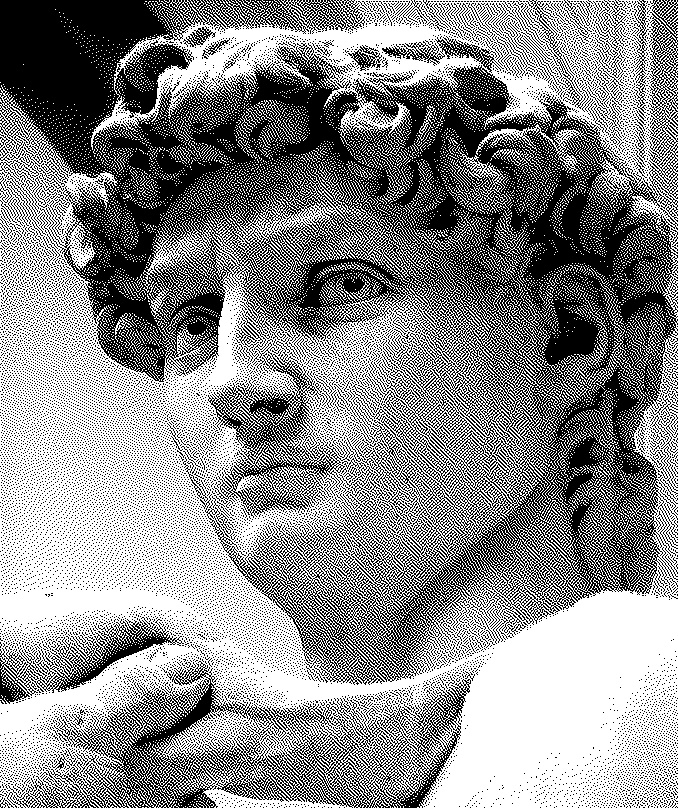
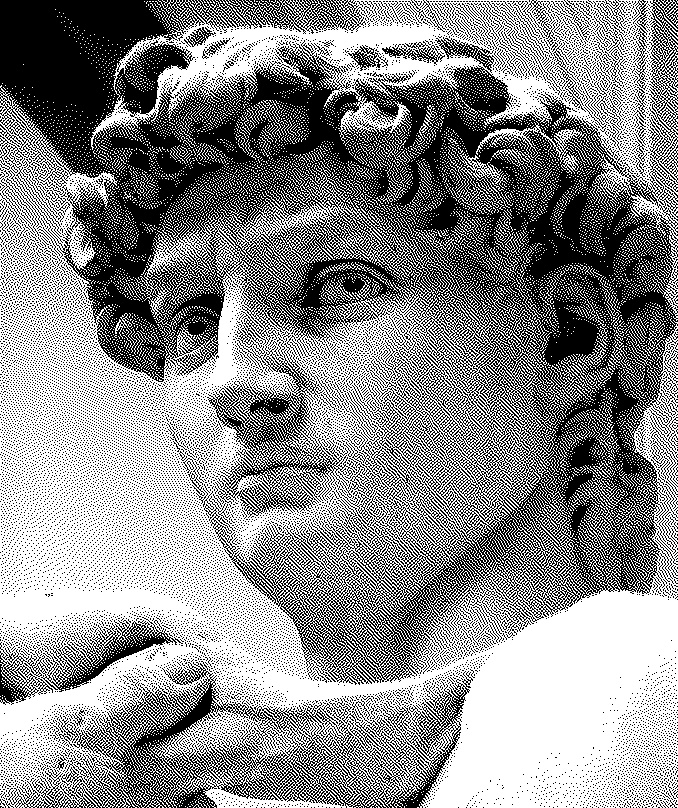
Updated program structure to functional form

diff --git a/test.cpp b/test.cpp
@@ -2,83 +2,67 @@
 #include <opencv2/imgcodecs.hpp>
 #include <opencv2/opencv.hpp>
 
-enum class dither_t { floyd_steinberg, atkinson, min_average_error };
+int8_t
+update_and_diff_closest_palette_color (cv::Mat& img, int i, int j) {
+  auto current = img.at<uchar> (i, j);
+  auto update  = (current > 127 ? 255 : 0);
+
+  img.at<uchar> (i, j) = update;
+  return int8_t (current) - int8_t (update);
+}
+
+using kernel_t = void (*) (cv::Mat&, int, int, double);
+
+kernel_t kernel_floyd_steinberg = [] (cv::Mat& img, int i, int j, double diff) {
+  auto error_diffused = diff / 16.;
+
+  img.at<uchar> (i, j + 1)     = img.at<uchar> (i, j + 1) + error_diffused * 7.;
+  img.at<uchar> (i + 1, j - 1) = img.at<uchar> (i + 1, j - 1) + error_diffused * 3.;
+  img.at<uchar> (i + 1, j)     = img.at<uchar> (i + 1, j) + error_diffused * 5.;
+  img.at<uchar> (i + 1, j + 1) = img.at<uchar> (i + 1, j + 1) + error_diffused;
+};
+
+kernel_t kernel_atkinson = [] (cv::Mat& img, int i, int j, double diff) {
+  auto error_diffused = diff / 8.;
+
+  img.at<uchar> (i, j + 1) = img.at<uchar> (i, j + 1) + error_diffused;
+  img.at<uchar> (i, j + 2) = img.at<uchar> (i, j + 2) + error_diffused;
+
+  img.at<uchar> (i + 1, j - 1) = img.at<uchar> (i + 1, j - 1) + error_diffused;
+  img.at<uchar> (i + 1, j)     = img.at<uchar> (i + 1, j) + error_diffused;
+  img.at<uchar> (i + 1, j + 1) = img.at<uchar> (i + 1, j + 1) + error_diffused;
+
+  img.at<uchar> (i + 2, j) = img.at<uchar> (i + 2, j) + error_diffused;
+};
+
+kernel_t kernel_min_average_error = [] (cv::Mat& img, int i, int j, double diff) {
+  auto error_diffused = diff / 48.;
+
+  img.at<uchar> (i, j + 1) = img.at<uchar> (i, j + 1) + error_diffused * 7.;
+  img.at<uchar> (i, j + 2) = img.at<uchar> (i, j + 2) + error_diffused * 5.;
+
+  img.at<uchar> (i + 1, j - 2) = img.at<uchar> (i + 1, j - 2) + error_diffused * 3.;
+  img.at<uchar> (i + 1, j - 1) = img.at<uchar> (i + 1, j - 1) + error_diffused * 5.;
+  img.at<uchar> (i + 1, j)     = img.at<uchar> (i + 1, j) + error_diffused * 7.;
+  img.at<uchar> (i + 1, j + 1) = img.at<uchar> (i + 1, j + 1) + error_diffused * 5.;
+  img.at<uchar> (i + 1, j + 2) = img.at<uchar> (i + 1, j + 2) + error_diffused * 3.;
+
+  img.at<uchar> (i + 2, j - 2) = img.at<uchar> (i + 2, j - 2) + error_diffused * 1.;
+  img.at<uchar> (i + 2, j - 1) = img.at<uchar> (i + 2, j - 1) + error_diffused * 3.;
+  img.at<uchar> (i + 2, j)     = img.at<uchar> (i + 2, j) + error_diffused * 5.;
+  img.at<uchar> (i + 2, j + 1) = img.at<uchar> (i + 2, j + 1) + error_diffused * 3.;
+  img.at<uchar> (i + 2, j + 2) = img.at<uchar> (i + 2, j + 2) + error_diffused * 1.;
+};
 
 cv::Mat
-dither (cv::Mat& src, const dither_t method) {
+dither (cv::Mat& src, const kernel_t kernel) {
   cv::Mat dithered = src.clone();
 
-  switch (method) {
-  case dither_t::floyd_steinberg:
-    for (int i = 0; i < dithered.rows; ++i) {
-      for (int j = 0; j < dithered.cols; ++j) {
-        auto old_pixel = dithered.at<uchar> (i, j);
-        auto new_pixel = (old_pixel > 128 ? 255 : 0);
-
-        dithered.at<uchar> (i, j) = new_pixel;
-
-        auto error_diffused = (old_pixel - new_pixel) / 16.;
-
-        dithered.at<uchar> (i, j + 1)     = dithered.at<uchar> (i, j + 1) + error_diffused * 7.;
-        dithered.at<uchar> (i + 1, j - 1) = dithered.at<uchar> (i + 1, j - 1) + error_diffused * 3.;
-        dithered.at<uchar> (i + 1, j)     = dithered.at<uchar> (i + 1, j) + error_diffused * 5.;
-        dithered.at<uchar> (i + 1, j + 1) = dithered.at<uchar> (i + 1, j + 1) + error_diffused;
-      }
+  for (int i = 0; i < dithered.rows; ++i) {
+    for (int j = 0; j < dithered.cols; ++j) {
+      auto diff = update_and_diff_closest_palette_color (dithered, i, j);
+      kernel (dithered, i, j, diff);
     }
-
-    break;
-
-  case dither_t::atkinson:
-    for (int i = 0; i < dithered.rows; ++i) {
-      for (int j = 0; j < dithered.cols; ++j) {
-        auto old_pixel = dithered.at<uchar> (i, j);
-        auto new_pixel = (old_pixel > 128 ? 255 : 0);
-
-        dithered.at<uchar> (i, j) = new_pixel;
-
-        auto error_diffused = (old_pixel - new_pixel) / 8.;
-
-        dithered.at<uchar> (i, j + 1) = dithered.at<uchar> (i, j + 1) + error_diffused;
-        dithered.at<uchar> (i, j + 2) = dithered.at<uchar> (i, j + 2) + error_diffused;
-
-        dithered.at<uchar> (i + 1, j - 1) = dithered.at<uchar> (i + 1, j - 1) + error_diffused;
-        dithered.at<uchar> (i + 1, j)     = dithered.at<uchar> (i + 1, j) + error_diffused;
-        dithered.at<uchar> (i + 1, j + 1) = dithered.at<uchar> (i + 1, j + 1) + error_diffused;
-
-        dithered.at<uchar> (i + 2, j) = dithered.at<uchar> (i + 2, j) + error_diffused;
-      }
-    }
-
-    break;
-
-  case dither_t::min_average_error:
-    for (int i = 0; i < dithered.rows; ++i) {
-      for (int j = 0; j < dithered.cols; ++j) {
-        auto old_pixel = dithered.at<uchar> (i, j);
-        auto new_pixel = (old_pixel > 128 ? 255 : 0);
-
-        dithered.at<uchar> (i, j) = new_pixel;
-
-        auto error_diffused = (old_pixel - new_pixel) / 48.;
-
-        dithered.at<uchar> (i, j + 1) = dithered.at<uchar> (i, j + 1) + error_diffused * 7.;
-        dithered.at<uchar> (i, j + 2) = dithered.at<uchar> (i, j + 2) + error_diffused * 5.;
-
-        dithered.at<uchar> (i + 1, j - 2) = dithered.at<uchar> (i + 1, j - 2) + error_diffused * 3.;
-        dithered.at<uchar> (i + 1, j - 1) = dithered.at<uchar> (i + 1, j - 1) + error_diffused * 5.;
-        dithered.at<uchar> (i + 1, j)     = dithered.at<uchar> (i + 1, j) + error_diffused * 7.;
-        dithered.at<uchar> (i + 1, j + 1) = dithered.at<uchar> (i + 1, j + 1) + error_diffused * 5.;
-        dithered.at<uchar> (i + 1, j + 2) = dithered.at<uchar> (i + 1, j + 2) + error_diffused * 3.;
-
-        dithered.at<uchar> (i + 2, j - 2) = dithered.at<uchar> (i + 2, j - 2) + error_diffused * 1.;
-        dithered.at<uchar> (i + 2, j - 1) = dithered.at<uchar> (i + 2, j - 1) + error_diffused * 3.;
-        dithered.at<uchar> (i + 2, j)     = dithered.at<uchar> (i + 2, j) + error_diffused * 5.;
-        dithered.at<uchar> (i + 2, j + 1) = dithered.at<uchar> (i + 2, j + 1) + error_diffused * 3.;
-        dithered.at<uchar> (i + 2, j + 2) = dithered.at<uchar> (i + 2, j + 2) + error_diffused * 1.;
-      }
-    }
-
-    break;
   }
 
   return dithered;
@@ -102,17 +86,17 @@ main (int argc, char* argv[]) {
   namedWindow ("Grayscale Image", cv::WINDOW_AUTOSIZE);
   imshow ("Grayscale Image", gray);
 
-  cv::Mat floyd_steinberg = dither (gray, dither_t::floyd_steinberg);
+  cv::Mat floyd_steinberg = dither (gray, kernel_floyd_steinberg);
   namedWindow ("Floyd-Steinberg Dithered Image", cv::WINDOW_AUTOSIZE);
   imshow ("Floyd-Steinberg Dithered Image", floyd_steinberg);
   cv::imwrite ("floyd-steinberg.jpg", floyd_steinberg);
 
-  cv::Mat atkinson = dither (gray, dither_t::atkinson);
+  cv::Mat atkinson = dither (gray, kernel_atkinson);
   namedWindow ("Atkinson Dithered Image", cv::WINDOW_AUTOSIZE);
   imshow ("Atkinson Dithered Image", atkinson);
   cv::imwrite ("atkinson.jpg", atkinson);
 
-  cv::Mat min_avg_err = dither (gray, dither_t::min_average_error);
+  cv::Mat min_avg_err = dither (gray, kernel_min_average_error);
   namedWindow ("Minimum Average Error Dithered Image", cv::WINDOW_AUTOSIZE);
   imshow ("Minimum Average Error Dithered Image", min_avg_err);
   cv::imwrite ("min_avg_err.jpg", min_avg_err);
